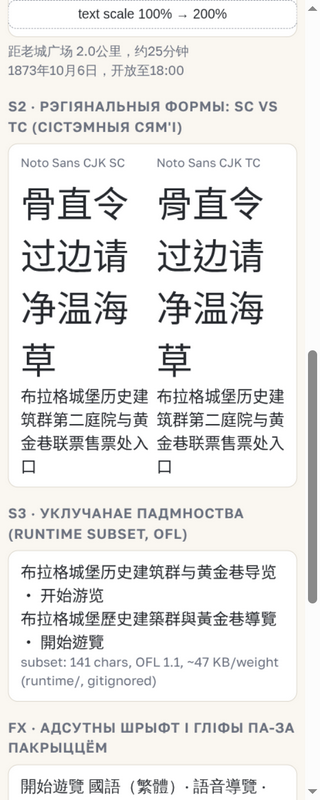
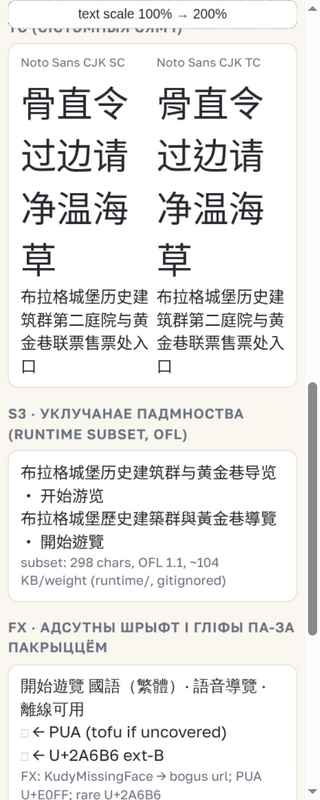
G21.40: фіксы рэвью — 67-кодпойнтавы намінатар, сканер у коміце, чып zh-Hant, ASCII-крыніцы (issue #621)

Changed region(s): [[0.0312, 0.0312, 0.9375, 1.0], [0.9375, 0.75, 1.0, 0.8125], [0.9375, 0.4375, 1.0, 0.5]]

diff --git a/spikes/G21.40-han-layout/probe.html b/spikes/G21.40-han-layout/probe.html
@@ -133,7 +133,7 @@
     var c = document.createElement('span'); c.className = 'chip'; c.textContent = name; chips.appendChild(c);
   });
   var cHans = document.createElement('span'); cHans.className = 'chip sel ess'; cHans.textContent = F.langPicker.candidateHans.label; chips.appendChild(cHans);
-  var cHant = document.createElement('span'); cHans.className = 'chip ess'; cHant.textContent = F.langPicker.candidateHant.label; chips.appendChild(cHant);
+  var cHant = document.createElement('span'); cHant.className = 'chip ess'; cHant.textContent = F.langPicker.candidateHant.label; chips.appendChild(cHant);
   set('s1-card-name', F.guideCard.nameHans);
   set('s1-card-name-pl', F.guideCard.namePolish);
   set('s1-card-duration', F.guideCard.durationHans);
@@ -163,7 +163,7 @@
   // S3
   set('s3-sc', F.guideCard.nameHans + ' · ' + F.actions.primaryHans);
   set('s3-tc', F.guideCard.nameHant + ' · ' + F.actions.primaryHant);
-  set('s3-note', 'subset: 141 chars, OFL 1.1, ~47 KB/weight (runtime/, gitignored)');
+  set('s3-note', 'subset: 298 chars, OFL 1.1, ~104 KB/weight (runtime/, gitignored)');
 
   // FX
   set('fx-missing', F.actions.primaryHant + ' ' + F.audioLabel.hant);

diff --git a/spikes/G21.40-han-layout/fixtures.js b/spikes/G21.40-han-layout/fixtures.js
@@ -29,7 +29,7 @@ window.PROBE_FIXTURES = {
       "note": "candidate, not activated"
     },
     "screenTitle": "\u8bed\u8a00 / \u8a9e\u8a00",
-    "screenTitleRu": "\u041c\u043e\u0432\u0430"
+    "screenTitleBel": "\u041c\u043e\u0432\u0430"
   },
   "guideCard": {
     "nameHans": "\u5e03\u62c9\u683c\u57ce\u5821\u5386\u53f2\u5efa\u7b51\u7fa4\u4e0e\u9ec4\u91d1\u5df7\u5bfc\u89c8",

diff --git a/spikes/G21.40-han-layout/scripts/scan-cmap.py b/spikes/G21.40-han-layout/scripts/scan-cmap.py
@@ -1,0 +1,107 @@
+#!/usr/bin/env python3
+"""G21.40 (issue #621) - regenerate the cmap coverage evidence JSONs.
+
+Produces (ASCII-escaped, gitguard-safe):
+  evidence/app-fonts-cmap.json   - the four approved KUDY faces vs the probe set
+  evidence/noto-cjk-members.json - NotoSansCJK-Regular.ttc members vs the probe set
+
+The probe set is the fixed 67-codepoint battery below (simplified /
+traditional representatives, shared regional-form codepoints, Polish
+Latin-Ext, digits and CJK punctuation, audio-UI characters), stored as
+unicode escapes so this source file carries no raw CJK bytes. Run:
+
+  python3 spikes/G21.40-han-layout/scripts/scan-cmap.py \
+      --node-modules <repo>/node_modules \
+      [--noto-ttc /usr/share/fonts/noto-cjk/NotoSansCJK-Regular.ttc]
+"""
+import argparse
+import json
+import pathlib
+
+from fontTools.ttLib import TTCollection, TTFont
+
+PROBE_SET = {
+    "simplified_only": "\u95e8\u53d1\u4e66\u8bed\u5e7f\u5bfc\u5386\u542c\u56e2\u5e01",
+    "traditional_only": "\u9580\u767c\u66f8\u8a9e\u5ee3\u5c0e\u6b77\u807d\u5718\u5e63",
+    "shared_regional": "\u9aa8\u76f4\u4ee4\u8fc7\u8fb9\u8bf7\u51c0\u6e29\u6d77\u8349",
+    "polish_latin": "\u0141\u0142\u017b\u017c\u0179\u017a\u0104\u0105\u0118\u0119\u00d3\u00f3\u0144\u015b\u0107",
+    "digits_punct": "09\u00a5\u3002\uff0c\uff1a\uff01\uff1f\u300c\u300d\uff5e\u00b7",
+    "audio_ui": "\u5206\u79d2\u64ad\u653e\u6682\u505c\u4e0b\u8f7d\u7968\u5bfc\u89c8",
+}
+
+FACES = [
+    ("@expo-google-fonts/golos-text/400Regular/GolosText_400Regular.ttf", "GolosText_400Regular"),
+    ("@expo-google-fonts/golos-text/600SemiBold/GolosText_600SemiBold.ttf", "GolosText_600SemiBold"),
+    ("@expo-google-fonts/alegreya/600SemiBold/Alegreya_600SemiBold.ttf", "Alegreya_600SemiBold"),
+    ("@expo-google-fonts/caveat/400Regular/Caveat_400Regular.ttf", "Caveat_400Regular"),
+]
+
+
+def probe_charset() -> dict:
+    flat = {}
+    for group, chars in PROBE_SET.items():
+        for ch in chars:
+            flat.setdefault(ch, []).append(group)
+    return flat
+
+
+def coverage(cmap, flat):
+    missing = [ch for ch in flat if ord(ch) not in cmap]
+    return len(flat) - len(missing), "".join(missing)
+
+
+def dump(path, payload):
+    path.write_text(json.dumps(payload, ensure_ascii=True, indent=1) + "\n", encoding="ascii")
+
+
+def main():
+    ap = argparse.ArgumentParser()
+    ap.add_argument("--node-modules", required=True)
+    ap.add_argument("--noto-ttc", default="/usr/share/fonts/noto-cjk/NotoSansCJK-Regular.ttc")
+    args = ap.parse_args()
+
+    nm = pathlib.Path(args.node_modules)
+    spike = pathlib.Path(__file__).resolve().parent.parent
+    ev = spike / "evidence"
+    flat = probe_charset()
+    total = len(flat)
+
+    faces = []
+    for rel, label in FACES:
+        font = TTFont(str(nm / rel), lazy=True)
+        covered, missing = coverage(font.getBestCmap(), flat)
+        faces.append({
+            "label": label,
+            "file": rel,
+            "total_glyphs": font["maxp"].numGlyphs,
+            "covered_of_%d" % total: covered,
+            "missing": missing,
+        })
+    dump(ev / "app-fonts-cmap.json", {
+        "probe_set_size": total,
+        "probe_set_groups": {k: len(v) for k, v in PROBE_SET.items()},
+        "note": "KUDY app faces vs the 67-codepoint probe set; missing lists the uncovered codepoints",
+        "faces": faces,
+    })
+
+    coll = TTCollection(args.noto_ttc, lazy=True)
+    members = []
+    for i, font in enumerate(coll.fonts):
+        covered, missing = coverage(font.getBestCmap(), flat)
+        members.append({
+            "index": i,
+            "name": font["name"].getDebugName(4),
+            "covered_of_%d" % total: covered,
+            "missing": missing,
+        })
+    dump(ev / "noto-cjk-members.json", {
+        "file": args.noto_ttc,
+        "probe_set_size": total,
+        "members": members,
+    })
+    print("probe set: %d codepoints; wrote app-fonts-cmap.json, noto-cjk-members.json" % total)
+    return 0
+
+
+if __name__ == "__main__":
+    raise SystemExit(main())

diff --git a/spikes/G21.40-han-layout/scripts/check-no-cjk.py b/spikes/G21.40-han-layout/scripts/check-no-cjk.py
@@ -29,11 +29,11 @@ def main() -> int:
         if not p.is_file():
             continue
         rel = p.relative_to(SPIKE)
-        if rel.parts[0] in ("runtime", "evidence") and (
-            rel.parts[0] == "runtime" or "screenshots" in rel.parts
-        ):
+        if "__pycache__" in rel.parts or "runtime" in rel.parts:
             continue
-        if p.suffix == ".png":
+        if rel.parts[0] == "evidence" and "screenshots" in rel.parts:
+            continue
+        if p.suffix in (".png", ".pyc"):
             continue
         if has_cjk(p.read_text(encoding="utf-8", errors="ignore")):
             bad.append(str(rel))

diff --git a/docs/agent-tasks/results/G21.40.md b/docs/agent-tasks/results/G21.40.md
@@ -7,7 +7,7 @@ Human-facing report (Belarusian): [`docs/reports/chinese/frontend.md`](../../rep
 ## Acceptance evidence
 
 1. **App references (≥3 named Chinese apps, three classes).** Amap/AutoNavi 17.0.2 (map/navigation, App Store CN + iTunes Lookup API, 2026-09-23), Sanmaoyou 5.2.0 (tourism/cultural audio guide, App Store CN + sanmaoyou.com, 2026-09-17), WeChat 8.0.79 (download/access, App Store CN + weixin.qq.com, 2026-09-29), NetEase Cloud Music web download page (supporting). Every row carries an explicit inspection flag: all four are `official-materials-only`/`docs-only` — no interactive inspection happened and none is claimed. Negative evidence recorded in `evidence/app-references.json`: AppGallery web is a JS shell, no mini-program-store/update-screen imagery exists in official material, no official page names a font family. No code, assets or licensed material copied.
-2. **Glyph coverage and two+ strategies for both writing candidates.** cmap scan of the four approved faces (versions from package-lock 0.4.2): GolosText 400/600, Alegreya 600, Caveat 400 cover 19/54 probe codepoints each — digits, Polish Latin-Ext, `¥`, `·` — and zero Han/CJK punctuation (`evidence/app-fonts-cmap.json`). System side: all five regional members (JP/KR/SC/TC/HK) of NotoSansCJK-Regular.ttc cover the full Han set; Noto CJK does NOT cover the full Polish Latin-Ext (no `Ł Ż Ź Ą Ę ś`), so the Latin primary stays mandatory in the chain (`evidence/noto-cjk-members.json`). Regional glyph form is member-controlled (SC vs TC comparison screenshot; JP-member trap documented). Licenses: Noto CJK = SIL OFL 1.1 from the font name table (`evidence/noto-license.json`). Strategies measured: (S1) system fallback — 0 bytes; (S3) embedded subset — 298-char probe build ~104 KB/weight, 108-unique-char minimal ~38 KB/weight (`evidence/subset-sizes.json`); (S2) explicit regional families as a control mechanism, not a delivery. No coverage inferred from a family name; no Japanese fallback used as proof.
+2. **Glyph coverage and two+ strategies for both writing candidates.** cmap scan of the four approved faces (versions from package-lock 0.4.2): GolosText 400/600, Alegreya 600, Caveat 400 cover 19/67 probe codepoints each — digits, Polish Latin-Ext, `¥`, `·` — and zero Han/CJK punctuation (`evidence/app-fonts-cmap.json`). System side: all five regional members (JP/KR/SC/TC/HK) of NotoSansCJK-Regular.ttc cover the full Han set; Noto CJK does NOT cover the full Polish Latin-Ext (no `Ł Ż Ź Ą Ę ś`), so the Latin primary stays mandatory in the chain (`evidence/noto-cjk-members.json`). Regional glyph form is member-controlled (SC vs TC comparison screenshot; JP-member trap documented). Licenses: Noto CJK = SIL OFL 1.1 from the font name table (`evidence/noto-license.json`). Strategies measured: (S1) system fallback — 0 bytes; (S3) embedded subset — 298-char probe build ~104 KB/weight, 108-unique-char minimal ~38 KB/weight (`evidence/subset-sizes.json`); (S2) explicit regional families as a control mechanism, not a delivery. No coverage inferred from a family name; no Japanese fallback used as proof.
 3. **Synthetic probe.** `spikes/G21.40-han-layout/` (probe.html + escape-encoded fixtures.js + scripts/build-subsets.py; `runtime/` gitignored in the same change). Sections: language selector, guide/place card, primary/secondary/disabled actions, error/unavailable, narrative text, timer, audio identity label; stresses: long no-space names, mixed Latin/digits/CJK runs, PUA U+E0FF, rare U+2A6B6, broken @font-face. Widths: 320 CSS px (web viewport) and Android device logical width; 200% text scaling via the probe's own class toggle. Machine checks (`fonts.check` + `.ess` clipping scan): `clipped_essential: []` at 100% and 200% on web; no missing-glyph box for content glyphs (tofu only in the two deliberate stress fixtures). Commit guards stayed enabled: machine files contain no raw CJK bytes; the probe renders real glyphs at runtime from `\uXXXX` escapes.
 4. **Font loading / missing font / offline; platform evidence.** Web (ZCode in-app Chromium, 320×800): all declared faces resolve except the deliberately broken `KudyMissingFace`; screenshots `web-320-s1/s2/fx/scale200.png`; machine JSON `probe-results-web-100.json` / `probe-results-web-200.json`. Android 16 (SDK 36) AVD + Chrome 133.0.6943.137, airplane mode ON, probe served over `adb reverse tcp:8789`: renders with `onLine:false` and all real faces resolved — machine JSON visible in `android-airplane-s2.png`; system fonts `NotoSansCJK-Regular.ttc`/`NotoSerifCJK-Regular.ttc` confirmed on device. Finding: Android system font_scale 2.0 does not scale the probe (px-pinned CSS root) — web scaling must come from the app's own mechanism; RN Text `allowFontScaling` behavior is a named remaining device check. iOS: **not verified** — remaining device check named (PingFang SC, RN Text chain on device). A DOM test or cmap scan is not claimed as device proof.
 5. **Recommendation and follow-up scope for G21.42.** `docs/reports/chinese/frontend.md` §6: prefer S1 system fallback (0 bytes, full coverage, already de-facto active); S3 embedded subset only if guaranteed regional form/weights offline are required (OFL 1.1, ~38–104 KB/weight, new binary delivery path + guards); S2 explicit families as language-tagged control against the JP-form trap. Layout guidance: no spaces between Han and digits; truncation or per-character wrapping for long names; mixed punctuation widths tolerated; no U+3000 justification. Follow-up scope named with boundaries (RN device run, iOS device run, optional subset task, content `lang` tagging). Simplified/traditional and regional variants stay labeled candidates; the probe activates no locale and claims no catalogue coverage.
@@ -19,10 +19,10 @@ Allowed outputs only: `docs/reports/chinese/frontend.md`, `spikes/G21.40-han-lay
 ## Proof
 
 ```sh
-node -e "const fs=require('node:fs');const a=require('node:assert/strict');const e='spikes/G21.40-han-layout/evidence/';for(const f of ['app-fonts-cmap.json','noto-cjk-members.json','subset-sizes.json','noto-license.json','app-references.json','summary.json','probe-results-web-100.json','probe-results-web-200.json'])a.ok(fs.existsSync(e+f),f);const c=JSON.parse(fs.readFileSync(e+'app-fonts-cmap.json'));for(const r of c)a.equal(r.covered_of_54,19);const s=JSON.parse(fs.readFileSync(e+'probe-results-web-200.json'));a.equal(s.viewport.scale200,true);a.deepEqual(s.clipped_essential,[]);console.log('G21.40 evidence proof: OK')"
+node -e "const fs=require('node:fs');const a=require('node:assert/strict');const e='spikes/G21.40-han-layout/evidence/';for(const f of ['app-fonts-cmap.json','noto-cjk-members.json','subset-sizes.json','noto-license.json','app-references.json','summary.json','probe-results-web-100.json','probe-results-web-200.json'])a.ok(fs.existsSync(e+f),f);const c=JSON.parse(fs.readFileSync(e+'app-fonts-cmap.json'));a.equal(c.probe_set_size,67);for(const r of c.faces)a.equal(r.covered_of_67,19);const s=JSON.parse(fs.readFileSync(e+'probe-results-web-200.json'));a.equal(s.viewport.scale200,true);a.deepEqual(s.clipped_essential,[]);console.log('G21.40 evidence proof: OK')"
 ```
 
-Fails if any evidence artifact is removed or if the measured facts change (app-face coverage 19/54, 200% run with zero clipped essentials).
+Fails if any evidence artifact is removed or if the measured facts change (app-face coverage 19/67, 200% run with zero clipped essentials).
 
 ## Checks
 

diff --git a/docs/reports/chinese/frontend.md b/docs/reports/chinese/frontend.md
@@ -62,15 +62,15 @@ URL і кітайскія назвы (як эскейпы):
 ## 3. Пакрыццё шрыфтоў KUDY (крытэр 2, частка 1)
 
 cmap-скан рэальных TTF з `node_modules/@expo-google-fonts/…` (версіі з
-package-lock 0.4.2) на пробным наборы з 54 знакаў:
+package-lock 0.4.2) на пробным наборы з 67 кодпойнтаў:
 `spikes/G21.40-han-layout/evidence/app-fonts-cmap.json`.
 
 | Твар | Гліфаў | Пакрыццё набору | Чаго няма |
 |---|---|---|---|
-| GolosText 400Regular | 617 | 19/54 | увесь Han, ўся CJK-пунктуацыя |
-| GolosText 600SemiBold | 617 | 19/54 | тое самае |
-| Alegreya 600SemiBold | 2092 | 19/54 | тое самае |
-| Caveat 400Regular | 1011 | 19/54 | тое самае |
+| GolosText 400Regular | 617 | 19/67 | увесь Han, ўся CJK-пунктуацыя |
+| GolosText 600SemiBold | 617 | 19/67 | тое самае |
+| Alegreya 600SemiBold | 2092 | 19/67 | тое самае |
+| Caveat 400Regular | 1011 | 19/67 | тое самае |
 
 Пакрытыя 19 — гэта лічбы, польская лацінка-пашырэнне, `¥` і `·`. **Выснова:
 сам факт загрузкі Golos/Alegreya/Caveat нічога не даказвае пра кітайскую** —

diff --git a/spikes/G21.40-han-layout/README.md b/spikes/G21.40-han-layout/README.md
@@ -29,8 +29,8 @@
 # 1) збіраць runtime/ (копіі твароў KUDY з node_modules + падмноствы Noto CJK)
 python3 spikes/G21.40-han-layout/scripts/build-subsets.py
 
-# 2) падняць лакальны сервер і адкрыць проб
-cd spikes/G21.40-han-layout && python3 -m http.server 8789
+# 2) падняць лакальны сервер і адкрыць проб (залупа толькі на loopback)
+cd spikes/G21.40-han-layout && python3 -m http.server 8789 --bind 127.0.0.1
 # web: http://127.0.0.1:8789/probe.html  (viewport 320px; кнопка «text scale» = 200%)
 
 # Android (эмулятар/прылада, офлайн-прагон):
